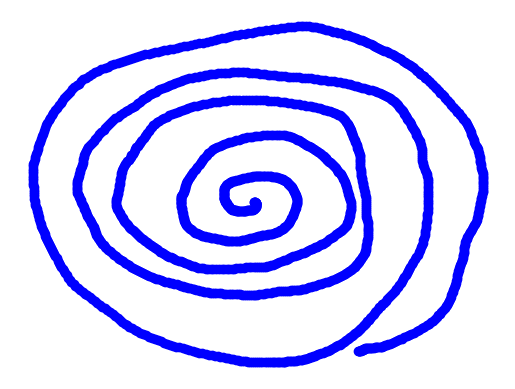
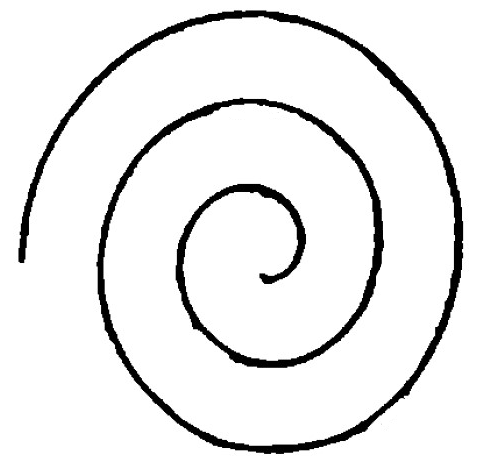
agregando coincidencia de iamgne con lapis

Changed region(s): [[0.0303, 0.0, 0.9697, 0.9871]]

diff --git a/lib/screens/draw_screen.dart b/lib/screens/draw_screen.dart
@@ -7,6 +7,7 @@ import 'package:path_provider/path_provider.dart';
 import 'package:path/path.dart';
 import 'package:flutter/rendering.dart';
 
+/*
 class DrawScreen extends StatefulWidget {
   @override
   _DrawScreenState createState() => _DrawScreenState();
@@ -92,9 +93,197 @@ class _DrawingPainter extends CustomPainter {
   @override
   void paint(Canvas canvas, Size size) {
     Paint paint = Paint()
-      ..color = Colors.black
+      ..color = Colors.blue
       ..strokeCap = StrokeCap.round
-      ..strokeWidth = 5.0;
+      ..strokeWidth = 8.0;
+
+    for (int i = 0; i < points.length - 1; i++) {
+      if (points[i] != null && points[i + 1] != null) {
+        canvas.drawLine(points[i]!, points[i + 1]!, paint);
+      }
+    }
+  }
+
+  @override
+  bool shouldRepaint(covariant CustomPainter oldDelegate) {
+    return true;
+  }
+}
+*
+class DrawScreen extends StatefulWidget {
+  @override
+  _DrawScreenState createState() => _DrawScreenState();
+}
+
+class _DrawScreenState extends State<DrawScreen> {
+  List<Offset?> _points = [];
+  GlobalKey _globalKey = GlobalKey();
+
+  Future<void> _saveToStorage() async {
+    // Código para guardar la imagen (sin cambios)
+  }
+
+  @override
+  Widget build(BuildContext context) {
+    return Scaffold(
+      appBar: AppBar(
+        title: Text('Dibujar sobre la Espiral'),
+        actions: [
+          IconButton(
+            icon: Icon(Icons.save),
+            onPressed: _saveToStorage,
+          )
+        ],
+      ),
+      body: Stack(
+        children: [
+          Positioned.fill(
+            child: Container(
+              width: 300, // Cambia el tamaño aquí
+              height: 300, // Cambia el tamaño aquí
+              child: Image.asset('assets/spiral.png', fit: BoxFit.contain),
+            ),
+          ),
+          RepaintBoundary(
+            key: _globalKey,
+            child: GestureDetector(
+              onPanUpdate: (details) {
+                setState(() {
+                  RenderBox renderBox = context.findRenderObject() as RenderBox;
+                  Offset localPosition =
+                      renderBox.globalToLocal(details.globalPosition);
+                  if (localPosition.dx >= 0 &&
+                      localPosition.dy >= 0 &&
+                      localPosition.dx <= renderBox.size.width &&
+                      localPosition.dy <= renderBox.size.height) {
+                    _points.add(localPosition);
+                  }
+                });
+              },
+              onPanEnd: (details) {
+                _points.add(null); // Marca el final de una línea
+              },
+              child: CustomPaint(
+                painter: _DrawingPainter(points: _points),
+                child: Container(),
+              ),
+            ),
+          ),
+        ],
+      ),
+    );
+  }
+}
+
+class _DrawingPainter extends CustomPainter {
+  final List<Offset?> points;
+  _DrawingPainter({required this.points});
+
+  @override
+  void paint(Canvas canvas, Size size) {
+    Paint paint = Paint()
+      ..color = Colors.blue
+      ..strokeCap = StrokeCap.round
+      ..strokeWidth = 8.0;
+
+    for (int i = 0; i < points.length - 1; i++) {
+      if (points[i] != null && points[i + 1] != null) {
+        canvas.drawLine(points[i]!, points[i + 1]!, paint);
+      }
+    }
+  }
+
+  @override
+  bool shouldRepaint(covariant CustomPainter oldDelegate) {
+    return true;
+  }
+}
+*/
+class DrawScreen extends StatefulWidget {
+  @override
+  _DrawScreenState createState() => _DrawScreenState();
+}
+
+class _DrawScreenState extends State<DrawScreen> {
+  List<Offset?> _points = [];
+  GlobalKey _globalKey = GlobalKey();
+
+  Future<void> _saveToStorage() async {
+    // Código para guardar la imagen (sin cambios)
+  }
+
+  @override
+  Widget build(BuildContext context) {
+    return Scaffold(
+      appBar: AppBar(
+        title: Text('Dibujar sobre la Espiral'),
+        actions: [
+          IconButton(
+            icon: Icon(Icons.save),
+            onPressed: _saveToStorage,
+          )
+        ],
+      ),
+      body: Stack(
+        children: [
+          Positioned.fill(
+            child: Container(
+              width: 300, // Ajusta el tamaño aquí
+              height: 300, // Ajusta el tamaño aquí
+              child: Image.asset('assets/spiral.png', fit: BoxFit.contain),
+            ),
+          ),
+          RepaintBoundary(
+            key: _globalKey,
+            child: GestureDetector(
+              onPanUpdate: (details) {
+                setState(() {
+                  RenderBox renderBox = _globalKey.currentContext!
+                      .findRenderObject() as RenderBox;
+
+                  // Ajusta el cálculo de la posición
+                  Offset localPosition =
+                      renderBox.globalToLocal(details.globalPosition);
+
+                  // Asegúrate de que las coordenadas estén dentro del límite
+                  if (localPosition.dx >= 0 &&
+                      localPosition.dy >= 0 &&
+                      localPosition.dx <= renderBox.size.width &&
+                      localPosition.dy <= renderBox.size.height) {
+                    _points.add(localPosition);
+                  }
+                });
+              },
+              onPanEnd: (details) {
+                _points.add(null); // Marca el final de una línea
+              },
+              child: Container(
+                width:
+                    800, // Asegúrate de que coincida con el tamaño de la imagen
+                height:
+                    800, // Asegúrate de que coincida con el tamaño de la imagen
+                child: CustomPaint(
+                  painter: _DrawingPainter(points: _points),
+                ),
+              ),
+            ),
+          ),
+        ],
+      ),
+    );
+  }
+}
+
+class _DrawingPainter extends CustomPainter {
+  final List<Offset?> points;
+  _DrawingPainter({required this.points});
+
+  @override
+  void paint(Canvas canvas, Size size) {
+    Paint paint = Paint()
+      ..color = Colors.blue
+      ..strokeCap = StrokeCap.round
+      ..strokeWidth = 8.0;
 
     for (int i = 0; i < points.length - 1; i++) {
       if (points[i] != null && points[i + 1] != null) {
